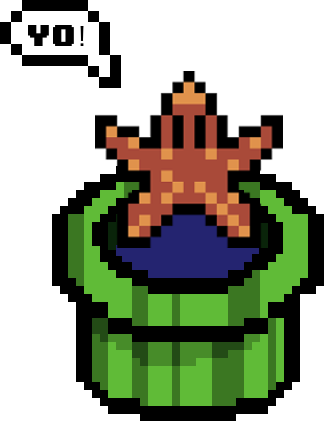
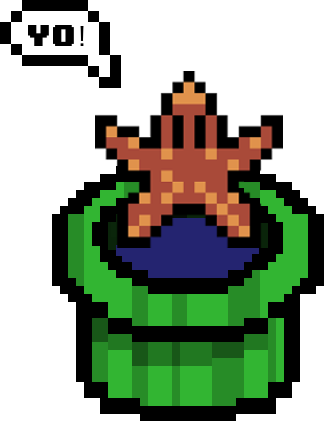
redo tube

Changed region(s): [[0.2462, 0.4323, 0.9538, 0.9881], [0.5231, 0.4941, 0.6462, 0.5249]]

diff --git a/app/public/css/main.css b/app/public/css/main.css
@@ -73,7 +73,7 @@ body {
   display: flex;
   align-self: center;
   float: right;
-  width: 60%;
+  width: 55%;
   height: auto;
   margin-top: 0%;
   margin-right: 4%;
